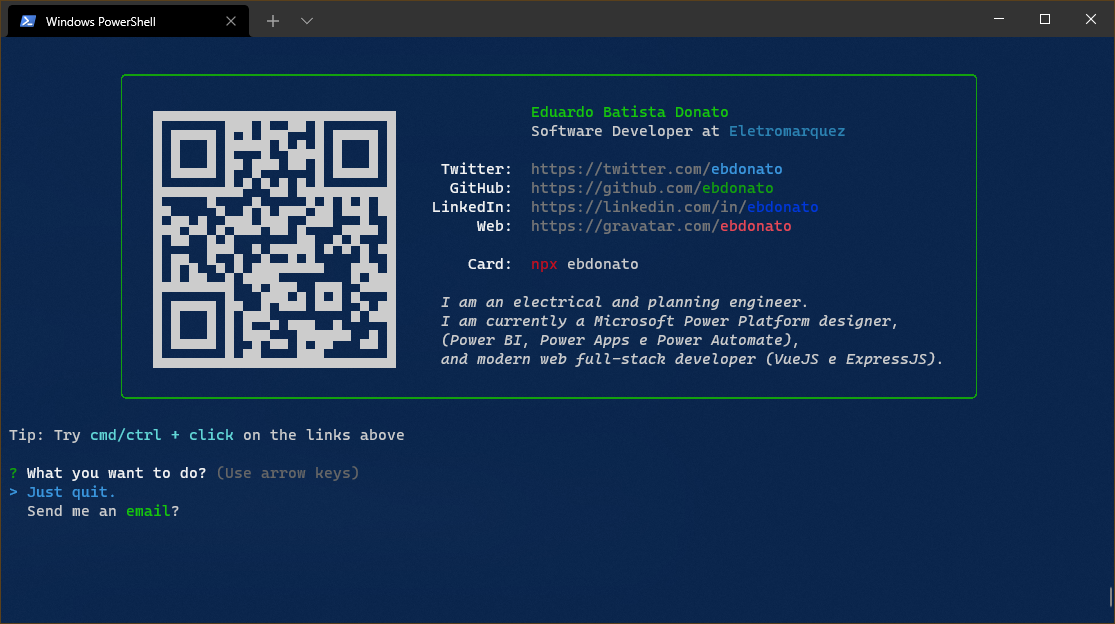
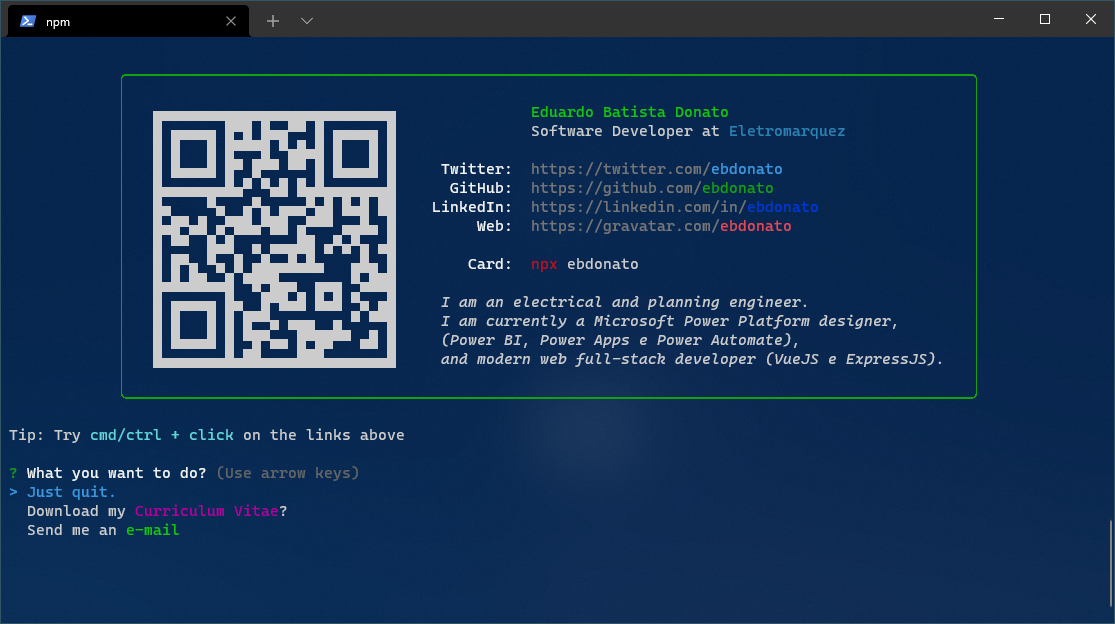
Option for download CV

Changed region(s): [[0.0305, 0.7917, 0.2439, 0.8526], [0.0305, 0.0304, 0.1525, 0.0609], [0.9758, 0.8526, 1.0, 0.9439]]

diff --git a/card.js b/card.js
@@ -8,6 +8,14 @@ const inquirer = require("inquirer")
 const clear = require("clear")
 const open = require("open")
 const qrCode = require("qrcode-terminal")
+const fs = require("fs")
+const request = require("request")
+const path = require("path")
+const ora = require("ora")
+const cliSpinners = require("cli-spinners")
+
+const MY_CV_URL = "https://github.com/ebdonato/cv/raw/main/cv-eduardo-donato.pdf"
+const MY_CV_FILE_NAME = "cv-eduardo-donato.pdf"
 
 clear()
 
@@ -23,6 +31,25 @@ const questions = [
                 name: "Just quit.",
                 value: () => {
                     console.log("Hasta la vista.\n")
+                },
+            },
+            {
+                name: `Download my ${chalk.magentaBright.bold("Curriculum Vitae")}?`,
+                value: () => {
+                    // cliSpinners.dots;
+                    const loader = ora({
+                        text: " Downloading Curriculum Vitae",
+                        spinner: cliSpinners.material,
+                    }).start()
+
+                    let pipe = request(MY_CV_URL).pipe(fs.createWriteStream(`./${MY_CV_FILE_NAME}`))
+
+                    pipe.on("finish", function () {
+                        let downloadPath = path.join(process.cwd(), MY_CV_FILE_NAME)
+                        console.log(`\nCurriculum Vitae Downloaded at ${downloadPath} \n`)
+                        open(downloadPath)
+                        loader.stop()
+                    })
                 },
             },
             {
